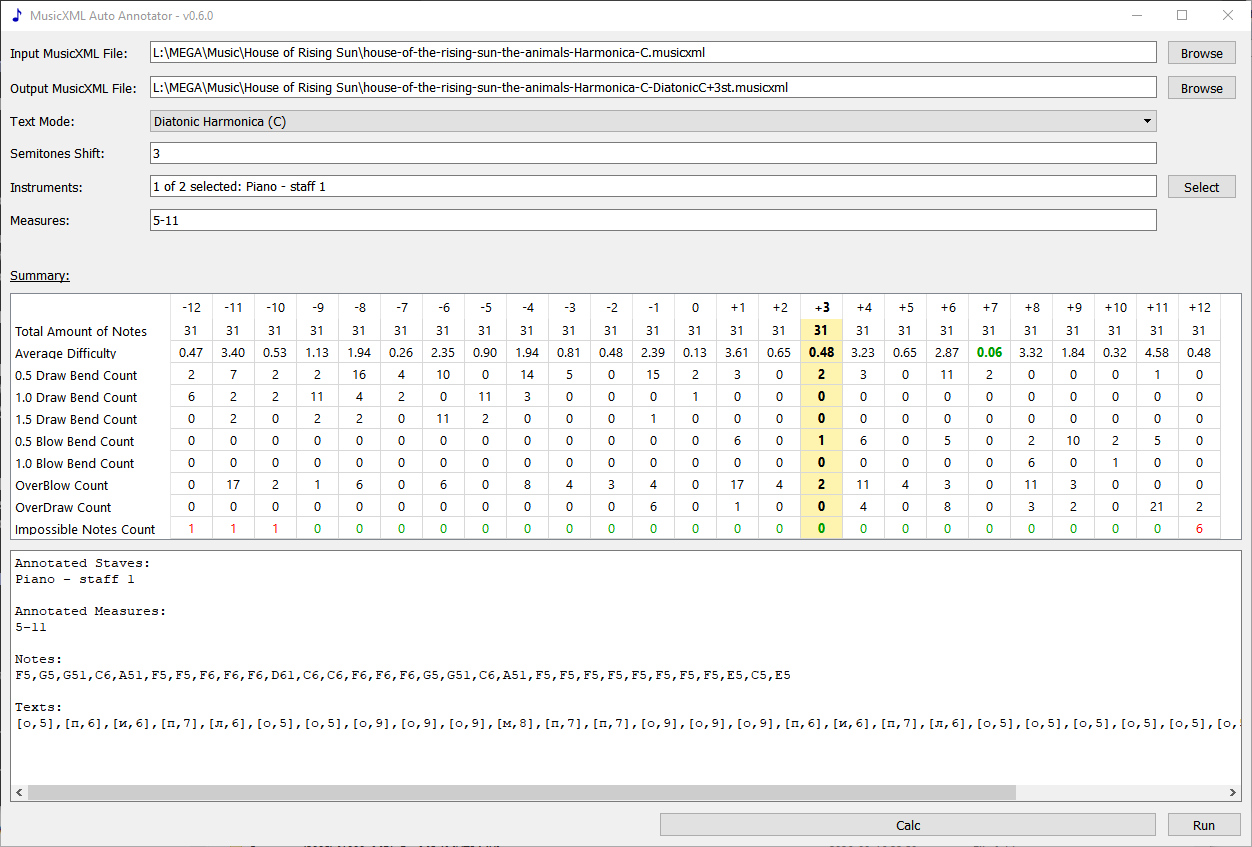
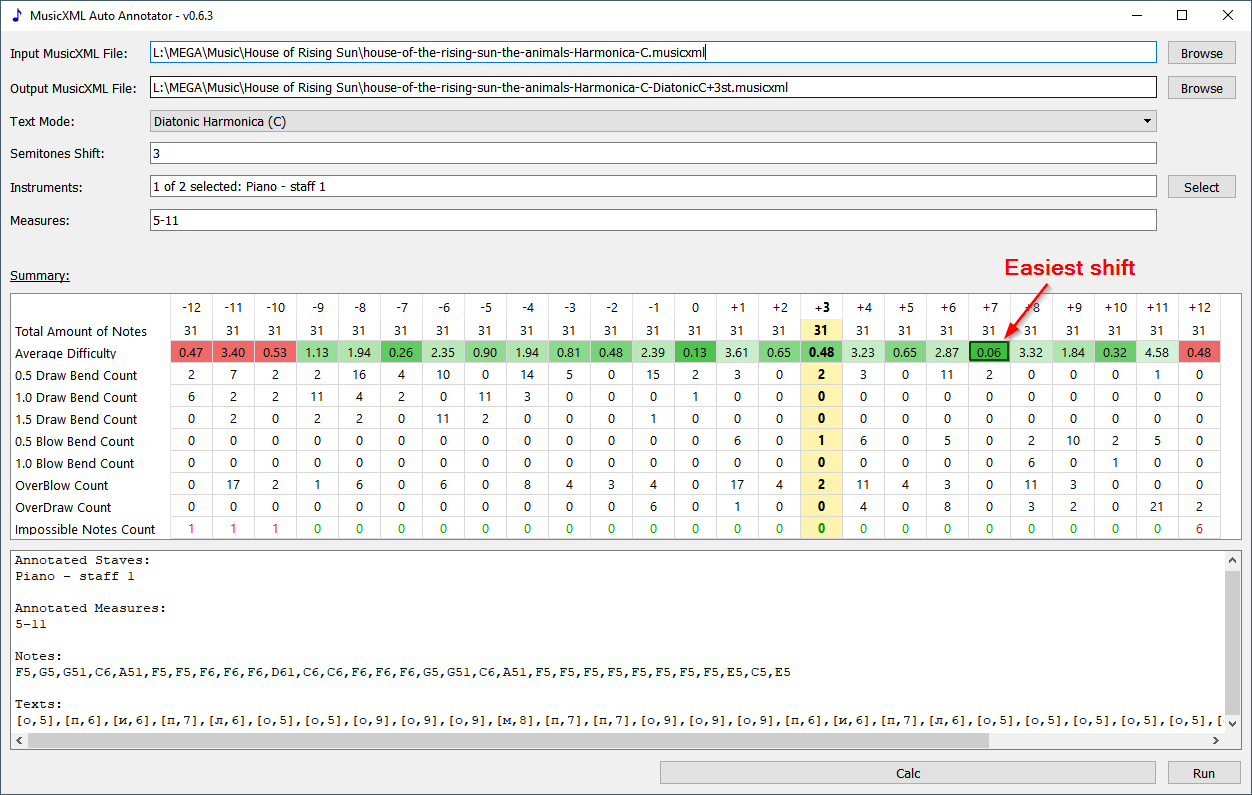
Update the README shading section and the GUI screenshot
The description of the Average Difficulty row was written before the
colours settled: it still said the shading ended at white, that the
shifts leaving impossible notes kept a plain background, and that
nothing was shaded when no shift could play the whole piece. It now
describes the three states of a cell, says that the whole row turns red
when nothing can play the piece, and mentions the logarithmic scale that
spreads the easy shifts apart, with the DIFFICULTY_* constants to tune
the colours and its steepness.

The GUI screenshot is retaken on the shaded table.

Claude-Session: https://claude.ai/code/session_015cfFkxcjcRqvAdaKa96Xx5

Changed region(s): [[0.0, 0.0, 1.0, 1.0]]

diff --git a/README.md b/README.md
@@ -79,14 +79,24 @@ bend, up to 6 for an overdraw), and the row shows the average over the notes tha
 The notes that are not on the harmonica at all are not part of it - they are not hard to play, they
 cannot be played - so read that row together with the "Impossible Notes Count" row right below it.
 
-The cells of that row are shaded from green (the easiest shift) to white (the hardest one), and the
-easiest one of all is framed, so that the whole row can be read as a heat strip. Only the shifts that
-can play every note of the piece take part in it - a shift that is "easy" only because most of the
-piece dropped out of it is never suggested, so the shifts that leave impossible notes behind keep a
-plain background and are never framed. When no shift can play the whole piece, nothing is shaded.
+The cells of that row are shaded, so that the whole row can be read as a heat strip instead of
+comparing 25 numbers:
 
-The weights live in the `DIATONIC_DIFFICULTY` dictionary at the top of `music_annotator.py`, tune them
-to your own playing.
+- the shifts that can play every note of the piece are shaded from a strong green (the easiest one)
+  to a pale green (the hardest one), and the easiest one of them all is framed
+- the shifts that leave notes that cannot be played at all are painted red. They take no part in the
+  shading and are never suggested, because a shift that is "easy" only thanks to the notes that
+  dropped out of it is not an easy shift. When no shift can play the whole piece the whole row is
+  red, and narrowing the "Instruments" or the "Measures" selection is usually what makes it playable
+
+The shade does not follow the value linearly: what separates two easy shifts is worth more than the
+same difference between two hard ones, which are out of reach anyway, so the value is put on a
+logarithmic scale. Two shifts scoring 0.06 and 0.90 out of a 0.06 to 4.58 range end up more than half
+the ramp apart, although both of them sit near the bottom of it.
+
+The weights live in the `DIATONIC_DIFFICULTY` dictionary at the top of `music_annotator.py`, and the
+colours and the steepness of that scale in the `DIFFICULTY_*` constants next to it - tune them to
+your own playing.
 
 ## Command line
 The GUI can also be opened directly on a file, with the "Calc" operation already done, by giving its
